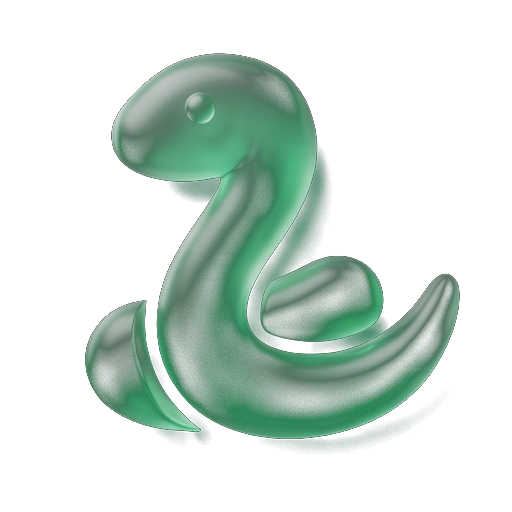
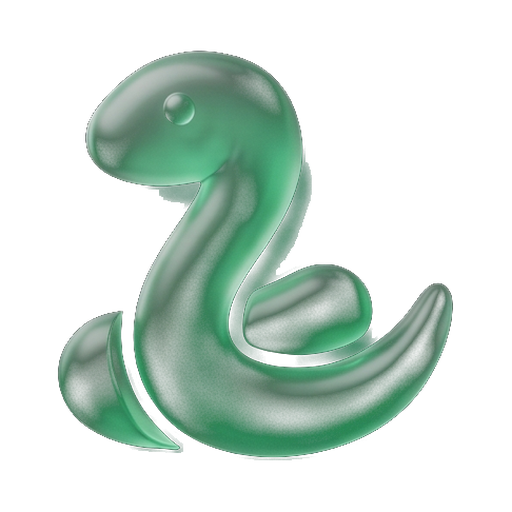
Odstranit stin u ikony Pythonu, druha metoda pro zakrivene tvary
Karel: "Jak jsme se bavili o tech stinech u ikon, tak vidim stin jeste
u pythonu." Ma pravdu a ja se v c35c3a6 spletl - prohlasil jsem zbytek
sady za cisty.

Jak se to stalo: dva automaticke detektory oznacily jinych pet ikon
a ani jeden se netrefil, tak jsem rozhodl podle kontrolniho listu vsech
osmnacti ve velikosti dlazdice (112 px). V te velikosti je mekky stin
pod zakrivenym hadem k nerozeznani od jeho vlastniho stinovani. Ve
zvetseni na 420 px je zretelny.

Vsechny tri postupy selhaly ze stejneho duvodu jako puvodni skript:
predpokladaji VYPOUKLY tvar, takze cokoli mimo rozpeti krycich pixelu
v radku a sloupci je stin. Had vypoukly neni. Stin u nej nejde odlisit
ani barvou (malo nasycene pixely maji alfu 241-249, to jsou odlesky na
skle, ne stin), ani krytim - ikona je sklenena, prusvitne je i telo.
Odlisi ho jedine POLOHA: lezi mimo obrys.

Skript ma proto nove DRUHOU metodu (--obrys), ktera si obrys spocita
morfologicky. Neni to nahrada te prvni, je to doplnek - a plan spravne
zadal regresi, ktera to dokazala: obrysova metoda ukousla word.png pravy
dolni roh, protoze je prusvitny a propadl pod prah jadra. Puvodni metoda
proto zustava vychozi a dava bit po bitu totez co dosud (overeno na
digitalni-gramotnost i word proti tomu, co je v repu).

python.png: zahozeno 5195 px stinu, had cely, hrany hlade.

POWER BI NECHAN BEZ ZASAHU. Detektor u nej hlasi 1541 px a ve zvetseni
je pod sloupci velmi slaby naznak, ale --obrys je presne ta metoda, ktera
[…]

Changed region(s): [[0.0938, 0.0938, 0.9062, 0.9062]]

diff --git a/scripts/odstran-stin-ikony.py b/scripts/odstran-stin-ikony.py
@@ -27,14 +27,31 @@ dotýkají obrysu.
 
 Na nevypuklý tvar (písmeno, mřížka) by se tenhle postup nehodil.
 
+DVĚ METODY, VYBER PODLE TVARU:
+
+  bez přepínače  – rozpětí krycích pixelů v řádku a sloupci. Platí jen na
+                   VYPOUKLÉ tvary, zato u nich spolehlivě (kotouče, dokument,
+                   notebook).
+  --obrys        – obrys spočítaný morfologicky. Pro zakřivené a vícedílné
+                   tvary, kde první metoda stín přehlédne (had u Pythonu).
+                   Na průsvitných okrajích ale ukusuje – ověřeno na `word.png`,
+                   kterému ukousla pravý dolní roh. Nepoužívat paušálně.
+
+Po každém běhu se na výsledek PODÍVEJ ve zvětšení. Stín pod zakřiveným tvarem
+je v dlaždici (112 px) k nerozeznání od vlastního stínování ikony – přesně
+proto se u Pythonu jeden přehlédl.
+
 Spouštět z kořene projektu:
     python3 scripts/odstran-stin-ikony.py public/images/tools/glass/databaze.png
+    python3 scripts/odstran-stin-ikony.py --obrys public/images/tools/glass/python.png
 """
 
 import os
 import sys
 
+import numpy as np
 from PIL import Image
+from scipy.ndimage import binary_closing, binary_dilation, binary_fill_holes, label
 
 # Krytí, od kterého se pixel počítá za tělo. Musí být nad spárami (113),
 # aby se braly jako vnitřek, a pod plným krytím, ať se vejde i vyhlazený okraj.
@@ -81,6 +98,52 @@ def bez_stinu(im: Image.Image) -> Image.Image:
     return im
 
 
+# ── Druhá metoda: pro tvary, které nejsou vypouklé ──────────────────────────
+
+# Krytí, od kterého se pixel počítá za jádro těla u obrysové metody.
+PRAH_JADRA = 120
+# Zacelení spár uvnitř skla, ať se z těla nevykousnou díry.
+ZACELENI = 9
+# O kolik pixelů se obrys povolí, aby zůstal vyhlazený okraj.
+REZERVA_OBRYSU = 7
+# Nejmenší část, která se ještě počítá za tělo, vůči té největší.
+PODIL_CASTI = 0.05
+
+
+def bez_stinu_obrys(im: Image.Image) -> Image.Image:
+    """Zahodí, co leží mimo OBRYS těla. Pro zakřivené a vícedílné tvary.
+
+    Metoda výš (rozpětí v řádku a sloupci) předpokládá VYPOUKLÝ tvar. Na hadovi
+    u Pythonu ta úvaha lže a stín pod zakřivením přehlédne. Tahle si obrys
+    spočítá morfologicky, takže na zakřivení nezáleží.
+
+    NENÍ to náhrada té první, je to doplněk. Ověřeno na `word.png`: obrysová
+    metoda mu ukousla pravý dolní roh, protože je průsvitný a propadl pod práh
+    jádra. U vypouklých ikon proto zůstává metoda výš.
+    """
+    alfa = np.asarray(im.split()[3], dtype=int)
+    jadro = alfa >= PRAH_JADRA
+    telo = binary_fill_holes(binary_closing(jadro, np.ones((ZACELENI, ZACELENI))))
+
+    znacky, pocet = label(telo)
+    drzeno = pocet
+    if pocet > 1:
+        # Power BI jsou TŘI samostatné sloupce – „jen největší část" by dva
+        # z nich smazala.
+        velikosti = np.array([(znacky == i).sum() for i in range(1, pocet + 1)])
+        drzet = [i + 1 for i, v in enumerate(velikosti) if v >= velikosti.max() * PODIL_CASTI]
+        telo = np.isin(znacky, drzet)
+        drzeno = len(drzet)
+
+    obrys = binary_dilation(telo, np.ones((REZERVA_OBRYSU, REZERVA_OBRYSU)))
+    zahozeno = int(((alfa > 0) & ~obrys).sum())
+    im.putalpha(Image.fromarray(np.where(obrys, alfa, 0).astype(np.uint8), "L"))
+    print(f"  zahozeno pixelů stínu: {zahozeno}")
+    if pocet > 1:
+        print(f"  částí těla: {pocet} (drženo {drzeno})")
+    return im
+
+
 def srovnej_do_ramu(im: Image.Image, hrana: int) -> Image.Image:
     """Objekt na střed a na dohodnutý podíl rámu.
 
@@ -101,14 +164,16 @@ def main() -> int:
     if len(sys.argv) < 2:
         print(__doc__)
         return 1
-    for cesta in sys.argv[1:]:
+    obrysem = "--obrys" in sys.argv
+    for cesta in [c for c in sys.argv[1:] if not c.startswith("--")]:
         if not os.path.exists(cesta):
             print(f"chybí {cesta}", file=sys.stderr)
             return 1
         im = Image.open(cesta).convert("RGBA")
         hrana = im.size[0]
         print(os.path.basename(cesta))
-        vysledek = srovnej_do_ramu(bez_stinu(im), hrana)
+        ocisteno = bez_stinu_obrys(im) if obrysem else bez_stinu(im)
+        vysledek = srovnej_do_ramu(ocisteno, hrana)
         vysledek.save(cesta, "PNG", optimize=True)
         bb = vysledek.getbbox()
         podil = max(bb[2] - bb[0], bb[3] - bb[1]) / hrana * 100
